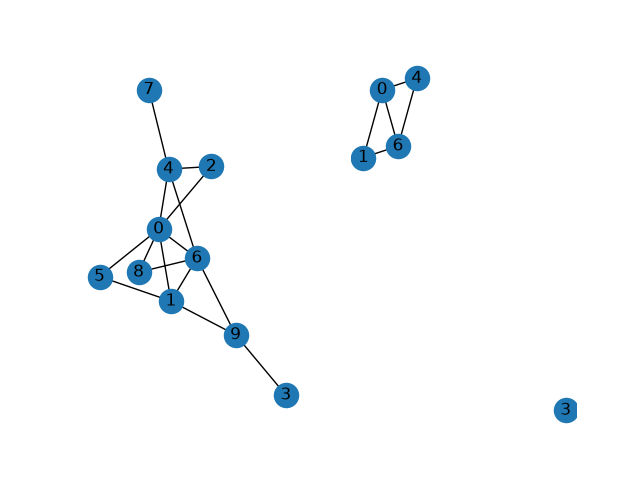
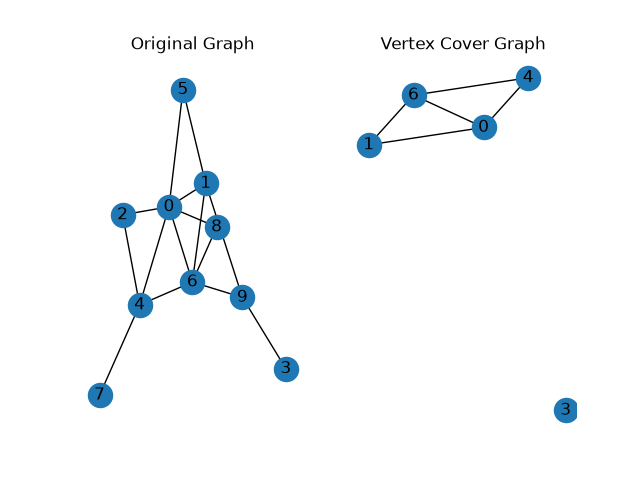
Updated Graph Files

diff --git a/python/graph_visualiser.py b/python/graph_visualiser.py
@@ -36,6 +36,9 @@ class Graph:
         fig, axes = plt.subplots(nrows=1, ncols=2)
         save_path = path.Path(save_dir)
 
+        axes[0].set_title("Original Graph")
+        axes[1].set_title("Vertex Cover Graph")
+
         G = netx.Graph()
         G.add_nodes_from(self.vertices, color="green")
         G.add_edges_from(self.edges)
@@ -49,7 +52,6 @@ class Graph:
             p = save_path.joinpath(self.vertex_file_path.stem + ".png")
             fig.savefig(p)
 
-edges = 45
-
-g = Graph(f"../cpp/resources/graphs/graph_{edges}.graph", f"../cpp/resources/vertex/graph_{edges}.vertex_cover")
-g.show_graph("./resources")
+for edges in range(10,46,5):
+    g = Graph(f"../cpp/resources/graphs/graph_{edges}.graph", f"../cpp/resources/vertex/graph_{edges}.vertex_cover")
+    g.show_graph("./resources")
